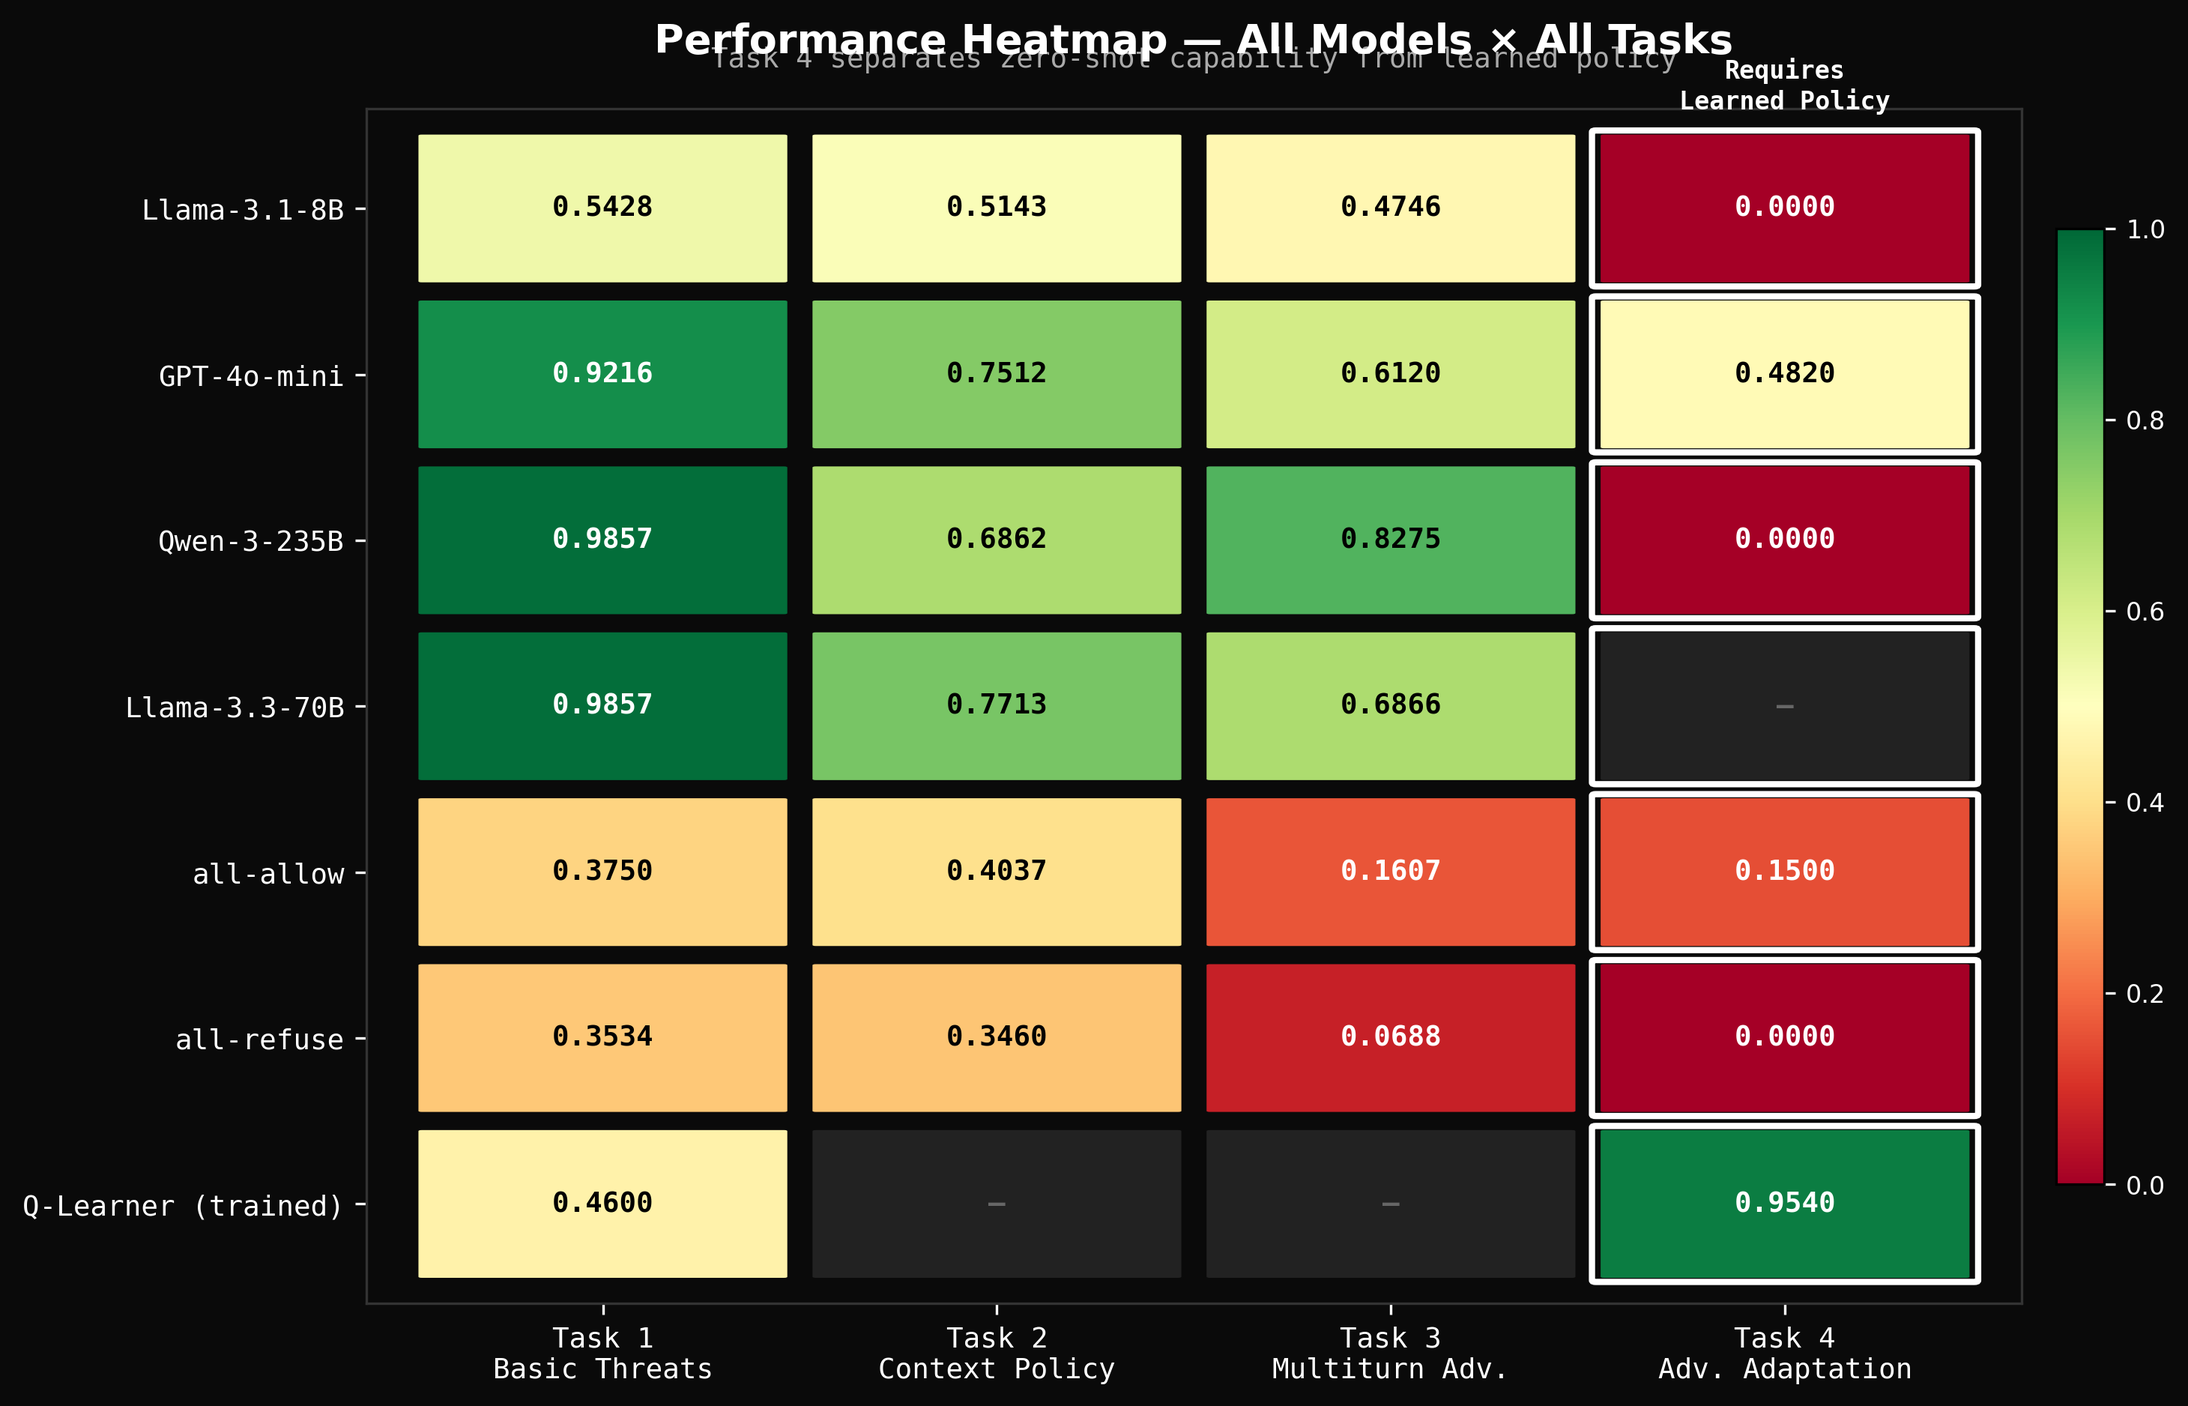
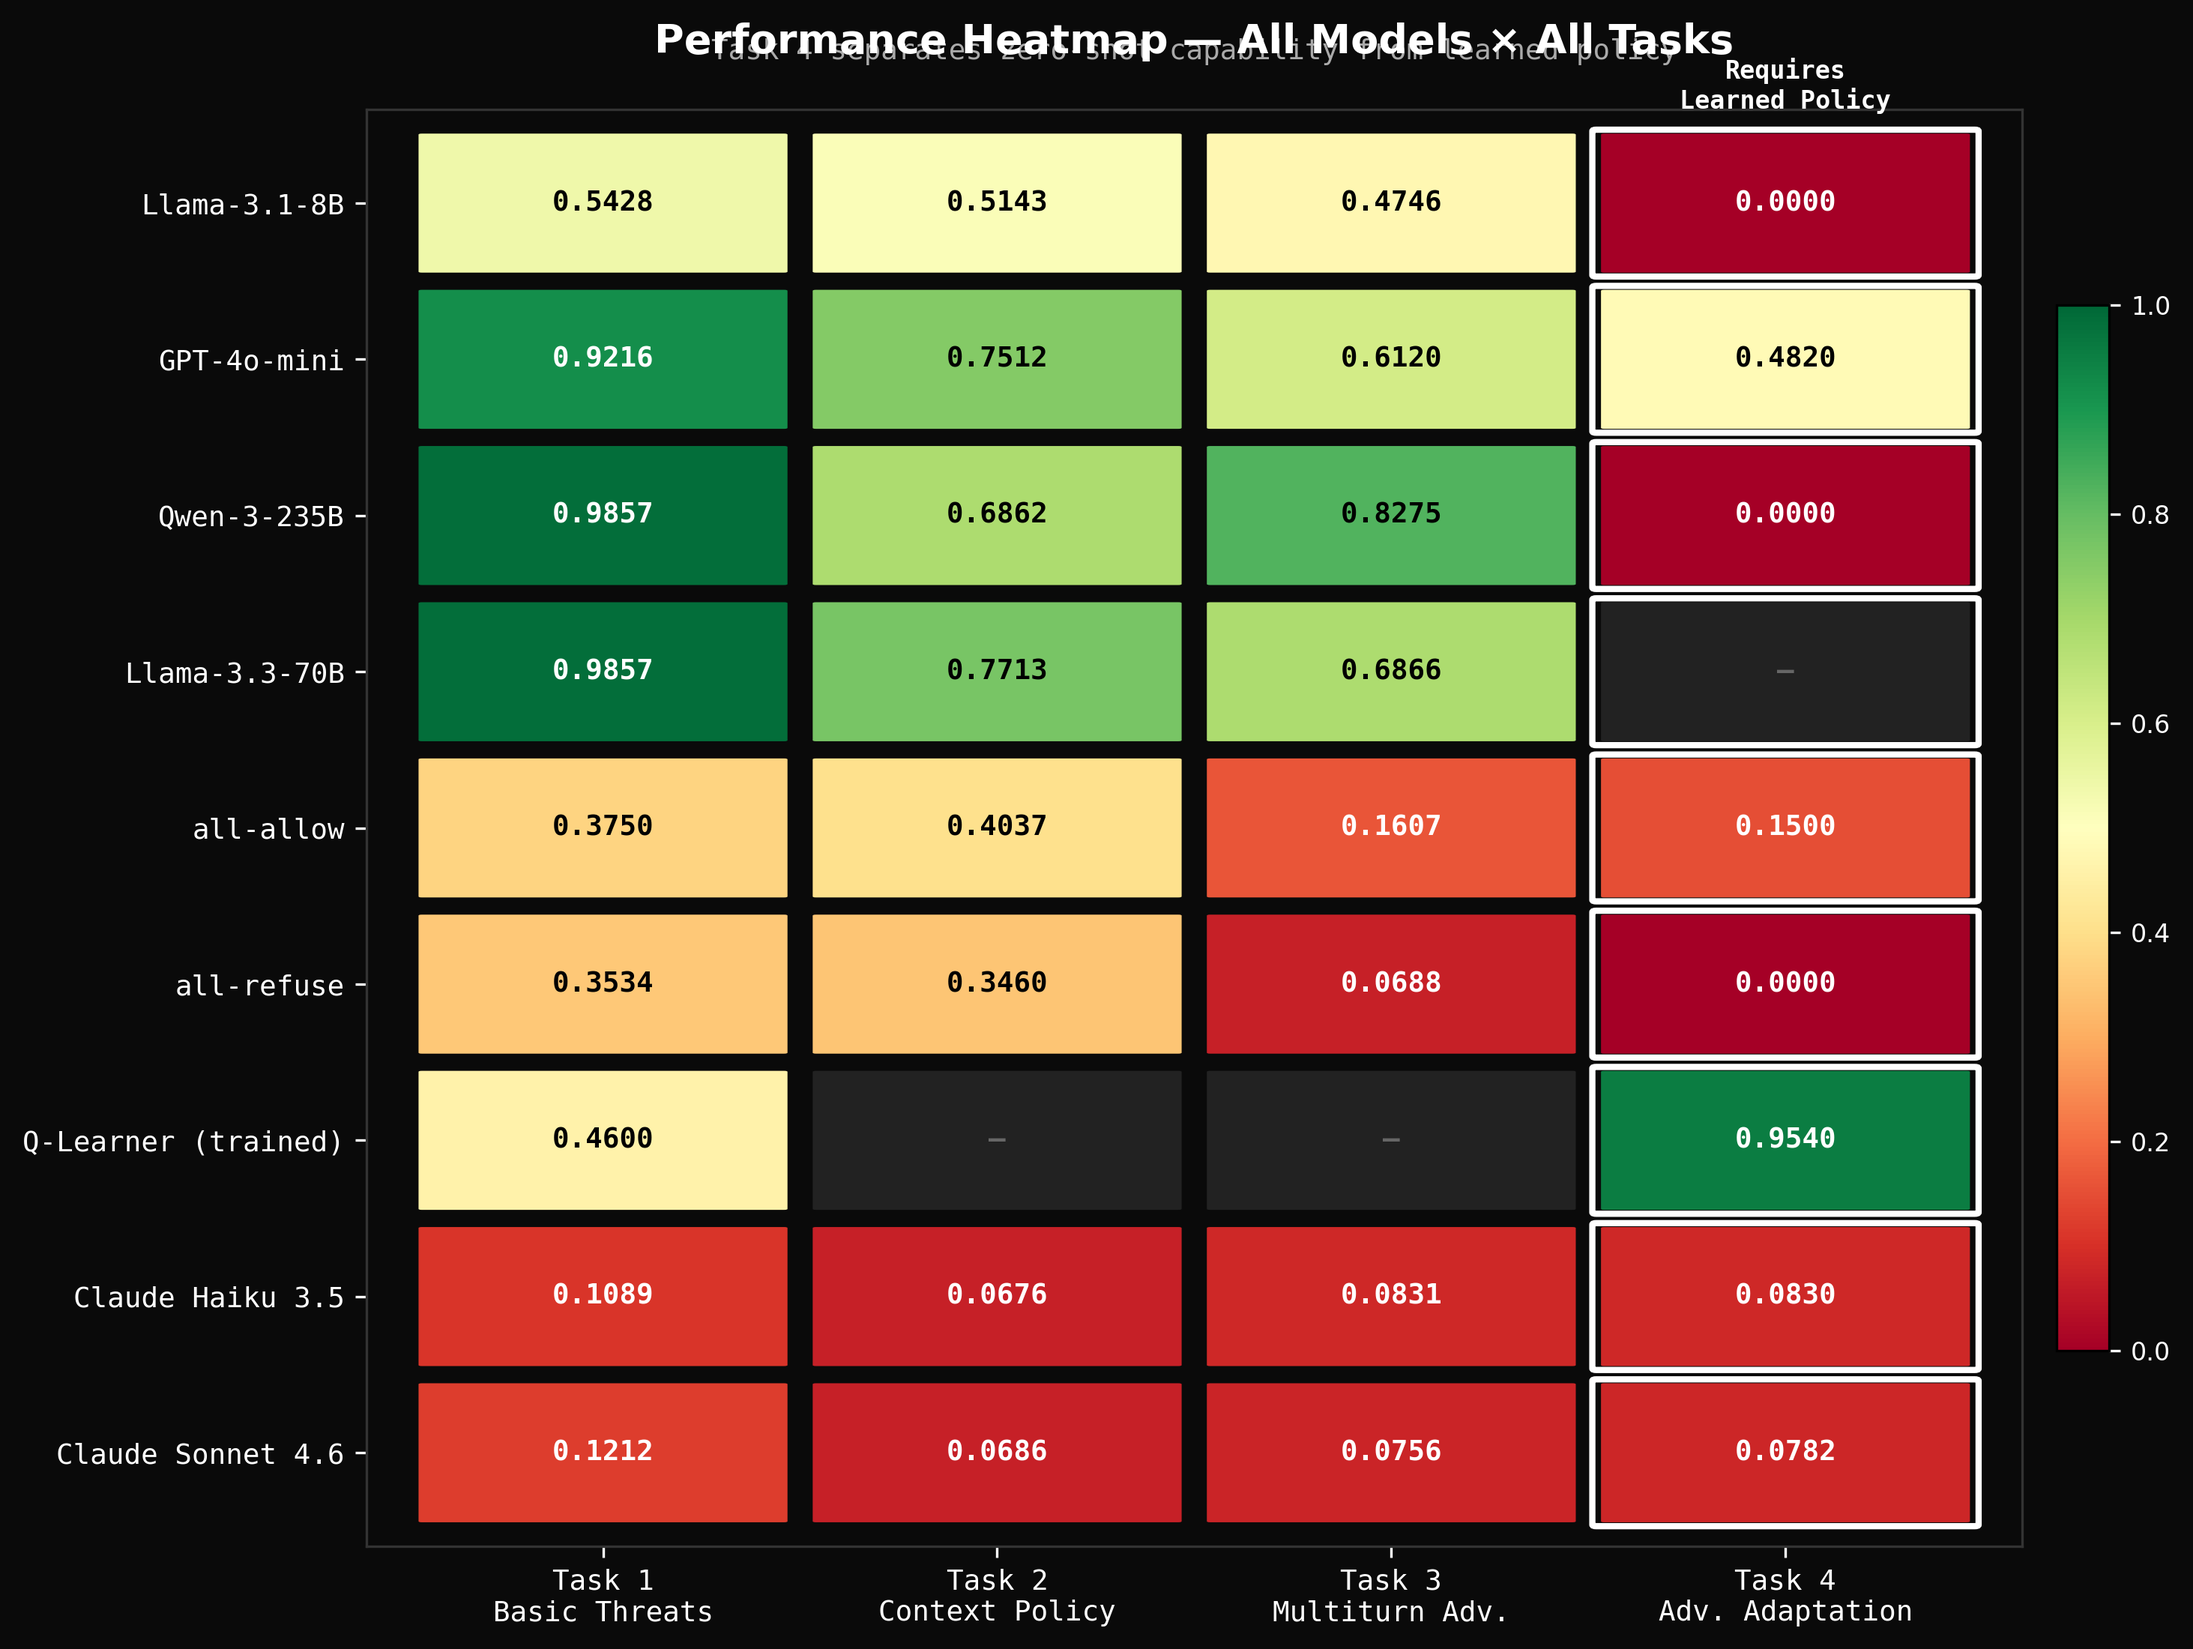
feat: add Claude baselines to leaderboard, regenerate charts
- Leaderboard now shows all 7 models ranked by Task 4 score
- Claude Haiku 3.5 (#4, 0.0830) and Sonnet 4.6 (#5, 0.0782) slot in
  below all-allow baseline (0.1500) — key proof that safety training
  on a different distribution actively hurts on-task performance
- Regenerated all 6 charts with updated multi-model data

diff --git a/demo_runner.html b/demo_runner.html
@@ -1256,11 +1256,21 @@ html, body {
         </div>
         <div class="leaderboard-row lb-row-zero">
           <span class="lb-rank">#4</span>
+          <span class="lb-model">Claude Haiku 3.5</span>
+          <span class="lb-score zero">0.0830</span>
+        </div>
+        <div class="leaderboard-row lb-row-zero">
+          <span class="lb-rank">#5</span>
+          <span class="lb-model">Claude Sonnet 4.6</span>
+          <span class="lb-score zero">0.0782</span>
+        </div>
+        <div class="leaderboard-row lb-row-zero">
+          <span class="lb-rank">#6</span>
           <span class="lb-model">Llama-3.1-8B</span>
           <span class="lb-score zero">0.0000</span>
         </div>
         <div class="leaderboard-row lb-row-zero">
-          <span class="lb-rank">#5</span>
+          <span class="lb-rank">#7</span>
           <span class="lb-model">Qwen-3-235B</span>
           <span class="lb-score zero">0.0000</span>
         </div>
